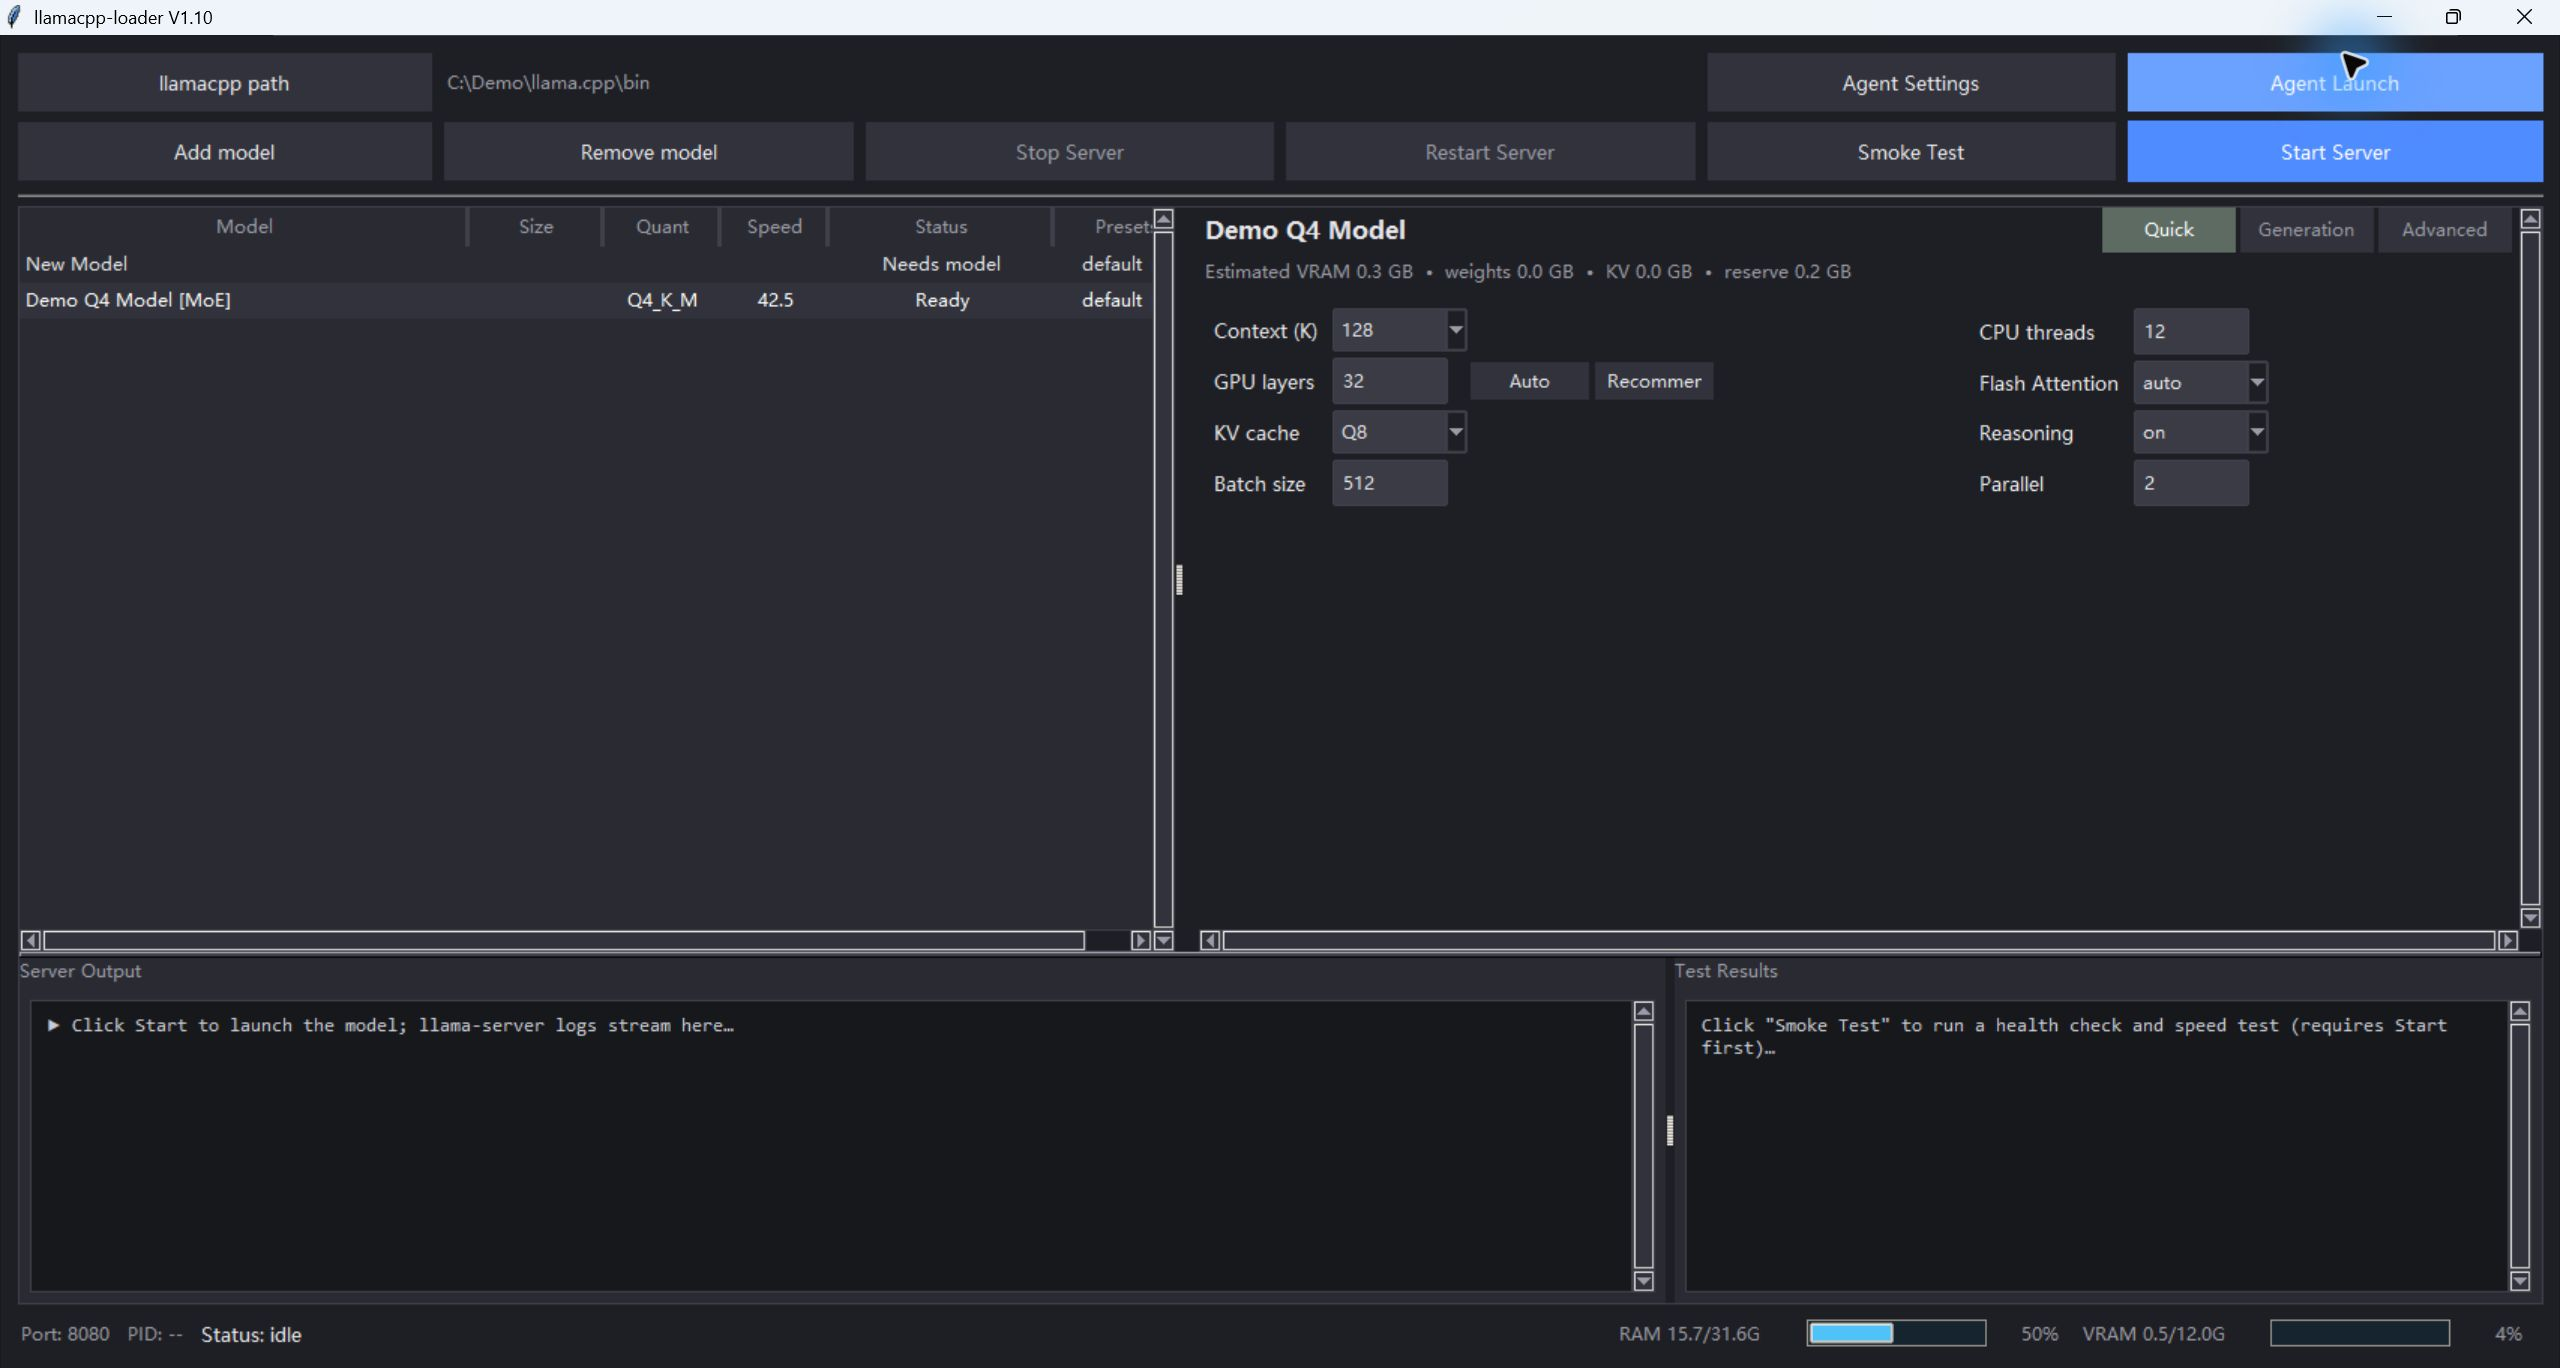
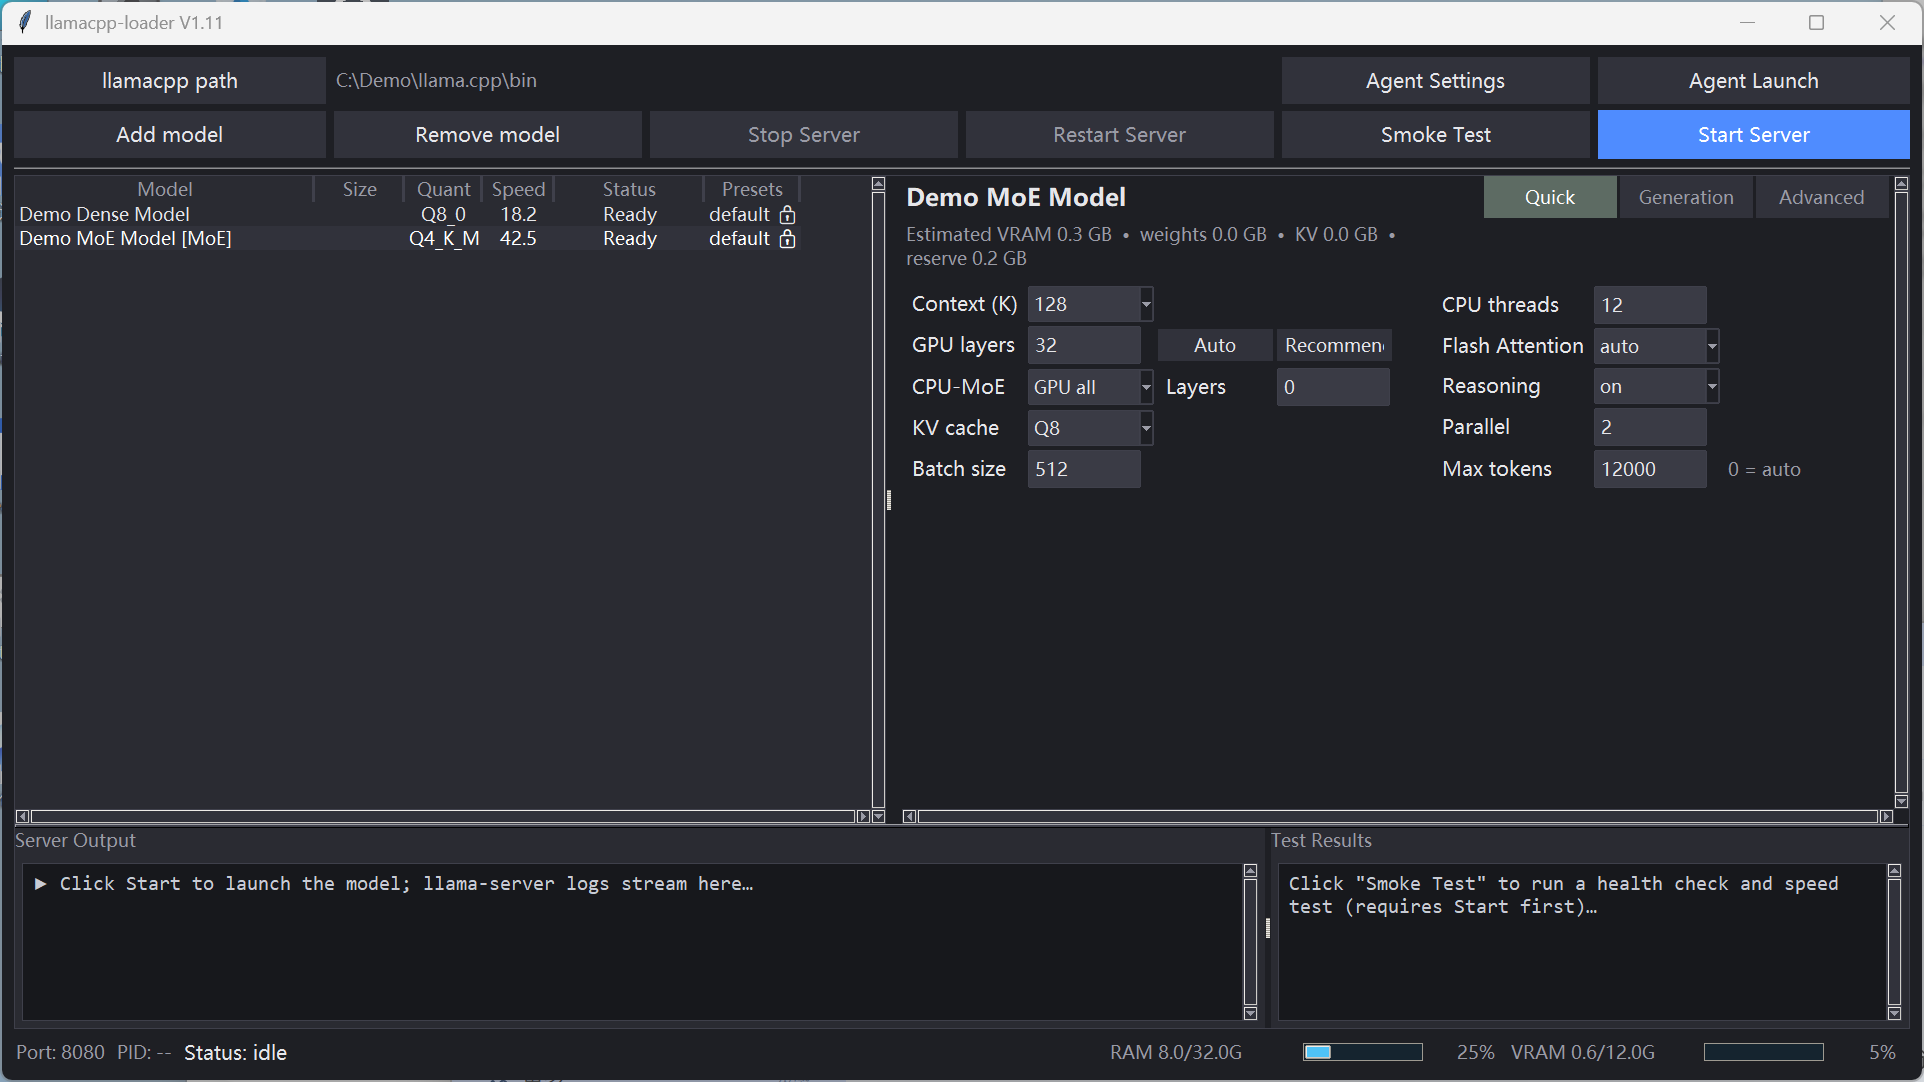
docs(readme): refresh GUI preview to V1.11
Replace the stale V1.10 screenshot with fresh captures of the real
V1.11 UI (fictional demo data, isolated APPDATA, no real config):

- Quick tab: tri-state Reasoning (auto/on/off) + Max tokens
- New Generation-tab shot showing the Thinking budget group
  (--reasoning-budget / -message / -effort)

Also fix docs/gui_preview.png being JPEG bytes under a .png name;
both images are real PNGs now (173 KB -> 74 KB + 78 KB).

Changed region(s): [[0.0, 0.0, 1.0, 1.0], [0.0, 0.9455, 0.1559, 1.0]]

diff --git a/README.md b/README.md
@@ -8,11 +8,17 @@ It folds the whole "pick a model → tune params → launch → test" workflow y
 
 ---
 
-## 🖼 GUI Preview (V1.10)
+## 🖼 GUI Preview (V1.11)
 
 ![llamacpp-loader GUI preview](docs/gui_preview.png)
 
-> Current V1.10 preview using fictional model names and paths only. It is intentionally safe to publish and does not contain a user's local configuration.
+**Quick** tab — tri-state `Reasoning` (auto / on / off) and `Max tokens` now live beside the launch params.
+
+![llamacpp-loader generation tab](docs/gui_preview_generation.png)
+
+**Generation** tab — the new **Thinking budget** group: `--reasoning-budget` (token cap for the thinking trace alone), `--reasoning-budget-message` (injected when the budget runs out), and `--reasoning-effort` (template-side hint).
+
+> Previews use fictional model names and paths only. They are intentionally safe to publish and do not contain a user's local configuration.
 
 ---
 
